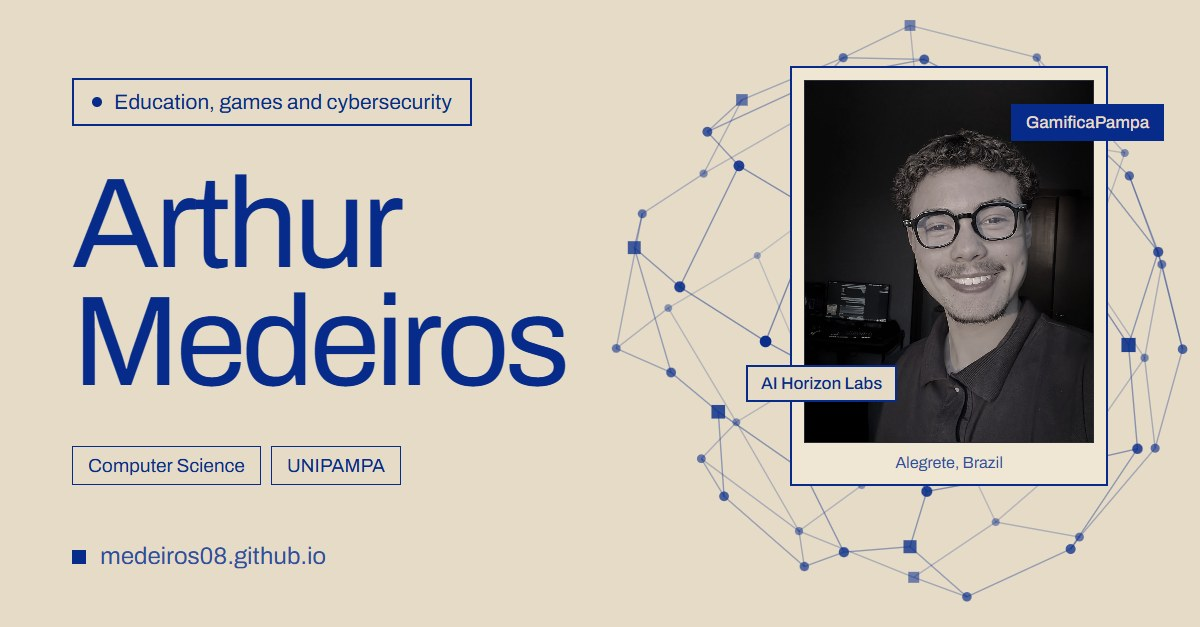
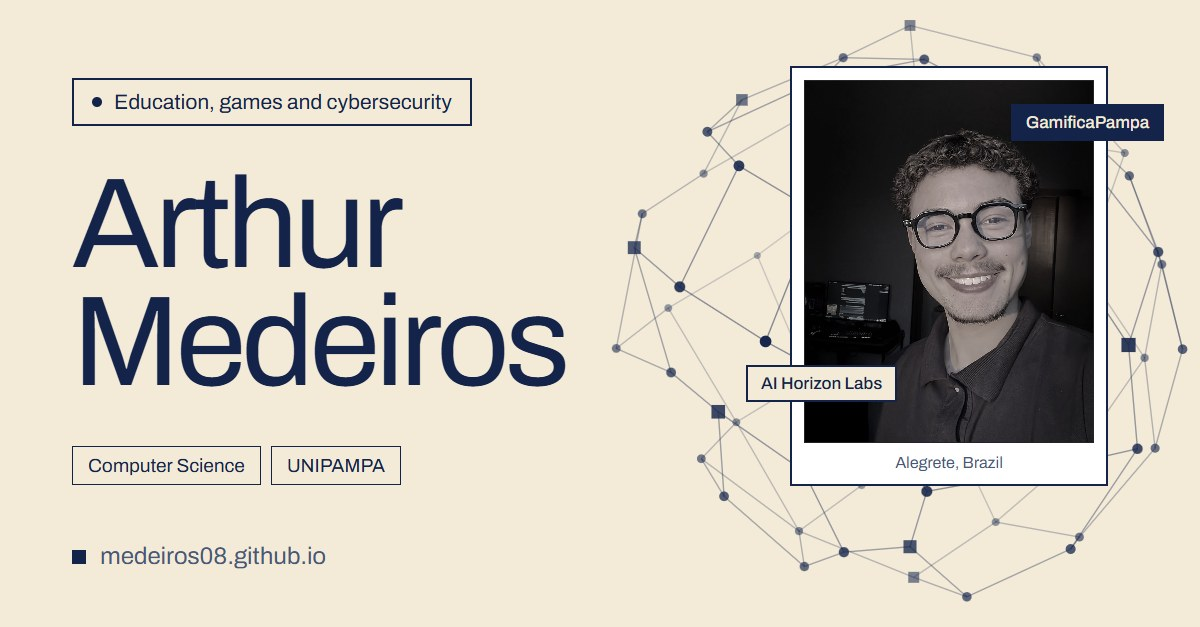
Visual "Marinho e creme": azul-marinho, creme e branco
Novo tema padrão: fundo creme, todo o texto em azul-marinho e cartões,
barra de navegação e etiquetas em branco. No escuro e no campo invertido
(Sobre e Laboratório P4), o inverso: marinho de fundo, texto creme e
destaques brancos. Todos os pares de texto têm contraste de 5,9:1 ou
mais. Areais e Wireshark continuam no menu de cores; as regras de título
em peso regular e foto quase sem cor valem para o Marinho também.

Escolhas de visual feitas antes desta versão são ignoradas uma vez (chave
estiloVersao), para todo mundo abrir no visual novo; escolhas feitas a
partir de agora continuam valendo. Imagens de compartilhamento refeitas
nas cores novas (?v=7) e theme-color em creme.

diff --git a/css/estilo.css b/css/estilo.css
@@ -1965,13 +1965,13 @@ html body .p4-form :is(input, select) { font-family: var(--fonte-codigo); }
 
 /* ---------- Tema Areais de Alegrete ---------- */
 /* Títulos em peso regular: o tamanho faz o trabalho, não o negrito */
-html[data-estilo="areais"]:not(.modo-hacker) :is(h1, h2, .hero-nome, .titulo-secao, .contato-titulo, .rodape-nome, .nav-nome, .p4-sim-titulo, .erro-codigo) { font-weight: 400; letter-spacing: -.03em; }
-html[data-estilo="areais"]:not(.modo-hacker) :is(h3, h4, .p4-etapa b) { font-weight: 500; }
-html[data-estilo="areais"]:not(.modo-hacker) .hero-nome { line-height: .95; }
+html:is([data-estilo="areais"], [data-estilo="marinho"]):not(.modo-hacker) :is(h1, h2, .hero-nome, .titulo-secao, .contato-titulo, .rodape-nome, .nav-nome, .p4-sim-titulo, .erro-codigo) { font-weight: 400; letter-spacing: -.03em; }
+html:is([data-estilo="areais"], [data-estilo="marinho"]):not(.modo-hacker) :is(h3, h4, .p4-etapa b) { font-weight: 500; }
+html:is([data-estilo="areais"], [data-estilo="marinho"]):not(.modo-hacker) .hero-nome { line-height: .95; }
 /* A foto entra na mesma paleta: quase sem cor, um pouco quente */
-html[data-estilo="areais"]:not(.modo-hacker) .hero-foto img { filter: grayscale(.85) sepia(.15); }
+html:is([data-estilo="areais"], [data-estilo="marinho"]):not(.modo-hacker) .hero-foto img { filter: grayscale(.85) sepia(.15); }
 /* O ponto verde de "disponível" vira o azul do tema */
-html[data-estilo="areais"]:not(.modo-hacker) :is(.hero-pill i, .status-ponto:not(.dormindo), .projeto-status::before) { background: var(--acento); animation-name: pulsar-acento; }
+html:is([data-estilo="areais"], [data-estilo="marinho"]):not(.modo-hacker) :is(.hero-pill i, .status-ponto:not(.dormindo), .projeto-status::before) { background: var(--acento); animation-name: pulsar-acento; }
 @keyframes pulsar-acento { 0% { box-shadow: 0 0 0 0 color-mix(in srgb, var(--acento) 55%, transparent); } 70%, 100% { box-shadow: 0 0 0 8px transparent; } }
 
 
@@ -2031,8 +2031,8 @@ html.anima .tela { animation: entrar-tela .9s cubic-bezier(.16, 1, .3, 1) backwa
 html.anima .tela.t1 { animation-delay: .45s; } html.anima .tela.t2 { animation-delay: .55s; } html.anima .tela.t3 { animation-delay: .65s; } html.anima .tela.t4 { animation-delay: .75s; }
 @keyframes entrar-tela { from { opacity: 0; transform: translate(-50%, -50%) translate(0, 0) rotate(0deg) scale(.8); } }
 /* Tema Areais: as telas entram na paleta como a foto */
-html[data-estilo="areais"]:not(.modo-hacker) .tela img { filter: grayscale(.6) sepia(.12); transition: filter .4s; }
-html[data-estilo="areais"]:not(.modo-hacker) .tela:hover img { filter: none; }
+html:is([data-estilo="areais"], [data-estilo="marinho"]):not(.modo-hacker) .tela img { filter: grayscale(.6) sepia(.12); transition: filter .4s; }
+html:is([data-estilo="areais"], [data-estilo="marinho"]):not(.modo-hacker) .tela:hover img { filter: none; }
 /* Com o topo empilhado (foto embaixo do texto), o leque fica menor; no celular some */
 @media (max-width: 960px) {
   .tela { width: 230px; }
@@ -2084,7 +2084,7 @@ html[data-estilo="areais"]:not(.modo-hacker) .tela:hover img { filter: none; }
 .caso-telas img { display: block; width: 100%; height: auto; aspect-ratio: 1024 / 640; object-fit: cover; border: var(--borda) solid var(--contorno); border-radius: calc(6 * var(--curva)); }
 .caso-telas figcaption { margin-top: 6px; font-size: 14px; color: var(--suave); }
 .caso-link { margin-top: 22px; }
-html[data-estilo="areais"]:not(.modo-hacker) .caso-telas img { filter: grayscale(.35) sepia(.08); }
+html:is([data-estilo="areais"], [data-estilo="marinho"]):not(.modo-hacker) .caso-telas img { filter: grayscale(.35) sepia(.08); }
 @media (max-width: 860px) {
   .bancada { grid-template-columns: minmax(0, 1fr); }
   .bancada-abas { position: static; grid-template-columns: repeat(auto-fit, minmax(160px, 1fr)); }

diff --git a/index.html b/index.html
@@ -6,7 +6,7 @@
   <title>Arthur Medeiros · Educação, jogos e cibersegurança</title>
   <meta name="description" id="metaDescricao" content="Estudante de Ciência da Computação na UNIPAMPA. Crio jogos que ensinam programação a crianças no GamificaPampa e pesquiso como deixar as redes mais seguras.">
   <meta name="author" content="Arthur Medeiros">
-  <meta name="theme-color" content="#1e1e1e">
+  <meta name="theme-color" content="#f3ead8">
   <link rel="canonical" href="https://medeiros08.github.io/">
   <link rel="alternate" hreflang="pt-BR" href="https://medeiros08.github.io/">
   <link rel="alternate" hreflang="en" href="https://medeiros08.github.io/en/">
@@ -20,7 +20,7 @@
   <meta property="og:url" content="https://medeiros08.github.io/">
   <meta property="og:title" content="Arthur Medeiros · Educação, jogos e cibersegurança">
   <meta property="og:description" content="Estudante de Ciência da Computação na UNIPAMPA. Crio jogos que ensinam programação a crianças no GamificaPampa e pesquiso como deixar as redes mais seguras.">
-  <meta property="og:image" content="https://medeiros08.github.io/img/compartilhar.jpg?v=6">
+  <meta property="og:image" content="https://medeiros08.github.io/img/compartilhar.jpg?v=7">
   <meta property="og:image:width" content="1200">
   <meta property="og:image:height" content="627">
   <meta property="og:image:alt" content="Arthur Medeiros: educação, jogos e cibersegurança">
@@ -59,7 +59,7 @@
 
   <link rel="preconnect" href="https://api.github.com" crossorigin>
   <link rel="preload" href="fontes/archivo-latin.woff2" as="font" type="font/woff2" crossorigin>
-  <link rel="stylesheet" href="css/estilo.css?v=20261022f">
+  <link rel="stylesheet" href="css/estilo.css?v=20261022g">
 
   <!-- Aplica o tema salvo antes de desenhar a página, para não piscar -->
   <script>
@@ -101,12 +101,12 @@
   <footer class="rodape" id="rodape"></footer>
 
   <!-- Seus dados ficam em js/dados.js -->
-  <script src="js/dados.js?v=20261022f"></script>
-  <script src="js/temas.js?v=20261022f"></script>
-  <script src="js/firewall.js?v=20261022f"></script>
-  <script src="js/p4.js?v=20261022f"></script>
-  <script src="js/rede.js?v=20261022f"></script>
+  <script src="js/dados.js?v=20261022g"></script>
+  <script src="js/temas.js?v=20261022g"></script>
+  <script src="js/firewall.js?v=20261022g"></script>
+  <script src="js/p4.js?v=20261022g"></script>
+  <script src="js/rede.js?v=20261022g"></script>
   <script src="js/vendor/lenis.min.js"></script>
-  <script src="js/app.js?v=20261022f"></script>
+  <script src="js/app.js?v=20261022g"></script>
 </body>
 </html>

diff --git a/en/index.html b/en/index.html
@@ -7,7 +7,7 @@
   <title>Arthur Medeiros · Education, games and cybersecurity</title>
   <meta name="description" id="metaDescricao" content="Computer Science student at UNIPAMPA (Brazil). I build games that teach kids to code at GamificaPampa and research how to make networks more secure.">
   <meta name="author" content="Arthur Medeiros">
-  <meta name="theme-color" content="#1e1e1e">
+  <meta name="theme-color" content="#f3ead8">
   <link rel="canonical" href="https://medeiros08.github.io/en/">
   <link rel="alternate" hreflang="pt-BR" href="https://medeiros08.github.io/">
   <link rel="alternate" hreflang="en" href="https://medeiros08.github.io/en/">
@@ -20,7 +20,7 @@
   <meta property="og:url" content="https://medeiros08.github.io/en/">
   <meta property="og:title" content="Arthur Medeiros · Education, games and cybersecurity">
   <meta property="og:description" content="Computer Science student at UNIPAMPA (Brazil). I build games that teach kids to code at GamificaPampa and research how to make networks more secure.">
-  <meta property="og:image" content="https://medeiros08.github.io/img/compartilhar-en.jpg?v=6">
+  <meta property="og:image" content="https://medeiros08.github.io/img/compartilhar-en.jpg?v=7">
   <meta property="og:image:width" content="1200">
   <meta property="og:image:height" content="627">
   <meta property="og:image:alt" content="Arthur Medeiros: education, games and cybersecurity">
@@ -59,7 +59,7 @@
 
   <link rel="preconnect" href="https://api.github.com" crossorigin>
   <link rel="preload" href="../fontes/archivo-latin.woff2" as="font" type="font/woff2" crossorigin>
-  <link rel="stylesheet" href="../css/estilo.css?v=20261022f">
+  <link rel="stylesheet" href="../css/estilo.css?v=20261022g">
 
   <script>
     document.documentElement.classList.add("js");
@@ -98,13 +98,13 @@
   <main id="conteudo"></main>
   <footer class="rodape" id="rodape"></footer>
 
-  <script src="../js/dados.js?v=20261022f"></script>
+  <script src="../js/dados.js?v=20261022g"></script>
 
-  <script src="../js/temas.js?v=20261022f"></script>
-  <script src="../js/firewall.js?v=20261022f"></script>
-  <script src="../js/p4.js?v=20261022f"></script>
-  <script src="../js/rede.js?v=20261022f"></script>
+  <script src="../js/temas.js?v=20261022g"></script>
+  <script src="../js/firewall.js?v=20261022g"></script>
+  <script src="../js/p4.js?v=20261022g"></script>
+  <script src="../js/rede.js?v=20261022g"></script>
   <script src="../js/vendor/lenis.min.js"></script>
-  <script src="../js/app.js?v=20261022f"></script>
+  <script src="../js/app.js?v=20261022g"></script>
 </body>
 </html>

diff --git a/js/temas.js b/js/temas.js
@@ -29,6 +29,17 @@
   // "fixos" são o papel e a tinta que não mudam com o tema (moldura da foto, balões do contato).
   const TEMAS = [
     {
+      // Azul-marinho, creme e branco: fundo creme com todo o texto em marinho e cartões brancos.
+      // No escuro (e no campo invertido), o inverso: marinho de fundo, texto creme e destaques em branco.
+      id: "marinho", nome: { pt: "Marinho e creme", en: "Navy and cream" }, titulo: FONTES.archivo, corpo: FONTES.archivo,
+      claro: { fundo: "#f3ead8", cartao: "#fffdf8", texto: "#13234a", suave: "#4a5878", acento: "#13234a", sobre: "#fffdf8" },
+      escuro: { fundo: "#0f1c3f", cartao: "#172a56", texto: "#f3ead8", suave: "#c3bba9", acento: "#ffffff", sobre: "#0f1c3f" },
+      destaques: ["#ffffff", "#e9dec7", "#dfe4ef"],
+      fixos: { papel: "#ffffff", tinta: "#13234a" },
+      forma: FORMAS.areia,
+      capas: ["#13234a", "#22366a", "#13234a", "#2e4580"],
+    },
+    {
       // Os areais de Alegrete: areia de fundo e um único azul-cobalto fazendo tudo (texto, desenhos, a rede).
       // No escuro, o inverso: areia sobre cobalto. Títulos em peso regular, nunca negrito.
       id: "areais", nome: { pt: "Areais de Alegrete", en: "Alegrete sands" }, titulo: FONTES.archivo, corpo: FONTES.archivo,
@@ -57,7 +68,7 @@
   // Guardado como id ("cor-2", "oceano"); versões antigas guardavam só o número da cor.
   const acharEstilo = (id) => ESTILOS.findIndex((e) => e.id === id || e.id === `cor-${id}`);
   // Quem tinha guardado um visual que não existe mais cai no "estilo" de dados.js
-  const indiceInicial = (guardado) => [guardado, D.estilo, "areais"].map(acharEstilo).find((i) => i >= 0) ?? 0;
+  const indiceInicial = (guardado) => [guardado, D.estilo, "marinho"].map(acharEstilo).find((i) => i >= 0) ?? 0;
 
   function aplicar(indice) {
     const e = ESTILOS[indice] || ESTILOS[0];

diff --git a/404.html b/404.html
@@ -28,7 +28,7 @@
   <link rel="icon" href="/favicon.svg" type="image/svg+xml">
   <link rel="preload" href="/fontes/archivo-latin.woff2" as="font" type="font/woff2" crossorigin>
   <!-- Caminhos absolutos: o GitHub Pages mostra esta página em qualquer endereço que não existe -->
-  <link rel="stylesheet" href="/css/estilo.css?v=20261022f">
+  <link rel="stylesheet" href="/css/estilo.css?v=20261022g">
   <script>
     try {
       var tema = localStorage.getItem("tema");
@@ -39,12 +39,12 @@
     } catch (e) {}
   </script>
   <!-- Mesmo visual do resto do site: o tema que o visitante escolheu, ou o "estilo" de dados.js -->
-  <script src="/js/dados.js?v=20261022f"></script>
-  <script src="/js/temas.js?v=20261022f"></script>
+  <script src="/js/dados.js?v=20261022g"></script>
+  <script src="/js/temas.js?v=20261022g"></script>
   <script>
     if (window.TEMAS_DO_SITE) {
       var guardado = null;
-      try { guardado = localStorage.getItem("estilo"); } catch (e) {}
+      try { if (localStorage.getItem("estiloVersao") === "2") guardado = localStorage.getItem("estilo"); } catch (e) {}
       TEMAS_DO_SITE.aplicar(TEMAS_DO_SITE.indiceInicial(guardado));
     }
   </script>

diff --git a/js/app.js b/js/app.js
@@ -298,7 +298,8 @@
 
   // Escolha do visitante no menu de cores e temas. A chave antiga "paleta" é ignorada de propósito:
   // guardava a cor do botão antigo e fazia o site abrir no lilás em vez do visual padrão.
-  const estiloGuardado = String(memoria.ler("estilo") ?? "");
+  // Escolhas feitas antes do visual Marinho e creme (sem "estiloVersao") são ignoradas uma vez, para todos verem o visual novo
+  const estiloGuardado = memoria.ler("estiloVersao") === "2" ? String(memoria.ler("estilo") ?? "") : "";
   let paleta = window.TEMAS_DO_SITE.indiceInicial(estiloGuardado);
   let pubsAbertas = false;
   let jaRenderizou = false;
@@ -1419,6 +1420,7 @@
   function escolherEstilo(indice) {
     paleta = (indice + ESTILOS.length) % ESTILOS.length;
     memoria.gravar("estilo", ESTILOS[paleta].id);
+    memoria.gravar("estiloVersao", "2");
     aplicarCores();
     atualizarCorDoNavegador();
     registrarEvento(`estilo-${ESTILOS[paleta].id}`, `Trocou o visual para ${t(ESTILOS[paleta].nome)}`);

diff --git a/en/notes/p4-explained/index.html b/en/notes/p4-explained/index.html
@@ -41,7 +41,7 @@
   </script>
 
   <link rel="preload" href="../../../fontes/archivo-latin.woff2" as="font" type="font/woff2" crossorigin>
-  <link rel="stylesheet" href="../../../css/estilo.css?v=20261022f">
+  <link rel="stylesheet" href="../../../css/estilo.css?v=20261022g">
   <script>
     document.documentElement.classList.add("js");
     try {
@@ -101,9 +101,9 @@
 
   <footer class="rodape" id="rodape"></footer>
 
-  <script src="../../../js/dados.js?v=20261022f"></script>
+  <script src="../../../js/dados.js?v=20261022g"></script>
 
-  <script src="../../../js/temas.js?v=20261022f"></script>
-  <script src="../../../js/app.js?v=20261022f"></script>
+  <script src="../../../js/temas.js?v=20261022g"></script>
+  <script src="../../../js/app.js?v=20261022g"></script>
 </body>
 </html>

diff --git a/en/notes/what-is-a-ctf/index.html b/en/notes/what-is-a-ctf/index.html
@@ -41,7 +41,7 @@
   </script>
 
   <link rel="preload" href="../../../fontes/archivo-latin.woff2" as="font" type="font/woff2" crossorigin>
-  <link rel="stylesheet" href="../../../css/estilo.css?v=20261022f">
+  <link rel="stylesheet" href="../../../css/estilo.css?v=20261022g">
   <script>
     document.documentElement.classList.add("js");
     try {
@@ -108,9 +108,9 @@
 
   <footer class="rodape" id="rodape"></footer>
 
-  <script src="../../../js/dados.js?v=20261022f"></script>
+  <script src="../../../js/dados.js?v=20261022g"></script>
 
-  <script src="../../../js/temas.js?v=20261022f"></script>
-  <script src="../../../js/app.js?v=20261022f"></script>
+  <script src="../../../js/temas.js?v=20261022g"></script>
+  <script src="../../../js/app.js?v=20261022g"></script>
 </body>
 </html>

diff --git a/en/projects/gamificapampa/index.html b/en/projects/gamificapampa/index.html
@@ -41,7 +41,7 @@
   </script>
 
   <link rel="preload" href="../../../fontes/archivo-latin.woff2" as="font" type="font/woff2" crossorigin>
-  <link rel="stylesheet" href="../../../css/estilo.css?v=20261022f">
+  <link rel="stylesheet" href="../../../css/estilo.css?v=20261022g">
   <script>
     document.documentElement.classList.add("js");
     try {
@@ -213,9 +213,9 @@
 
   <footer class="rodape" id="rodape"></footer>
 
-  <script src="../../../js/dados.js?v=20261022f"></script>
+  <script src="../../../js/dados.js?v=20261022g"></script>
 
-  <script src="../../../js/temas.js?v=20261022f"></script>
-  <script src="../../../js/app.js?v=20261022f"></script>
+  <script src="../../../js/temas.js?v=20261022g"></script>
+  <script src="../../../js/app.js?v=20261022g"></script>
 </body>
 </html>

diff --git a/notas/o-que-e-ctf/index.html b/notas/o-que-e-ctf/index.html
@@ -41,7 +41,7 @@
   </script>
 
   <link rel="preload" href="../../fontes/archivo-latin.woff2" as="font" type="font/woff2" crossorigin>
-  <link rel="stylesheet" href="../../css/estilo.css?v=20261022f">
+  <link rel="stylesheet" href="../../css/estilo.css?v=20261022g">
   <script>
     document.documentElement.classList.add("js");
     try {
@@ -108,9 +108,9 @@
 
   <footer class="rodape" id="rodape"></footer>
 
-  <script src="../../js/dados.js?v=20261022f"></script>
+  <script src="../../js/dados.js?v=20261022g"></script>
 
-  <script src="../../js/temas.js?v=20261022f"></script>
-  <script src="../../js/app.js?v=20261022f"></script>
+  <script src="../../js/temas.js?v=20261022g"></script>
+  <script src="../../js/app.js?v=20261022g"></script>
 </body>
 </html>

diff --git a/notas/p4-explicado/index.html b/notas/p4-explicado/index.html
@@ -41,7 +41,7 @@
   </script>
 
   <link rel="preload" href="../../fontes/archivo-latin.woff2" as="font" type="font/woff2" crossorigin>
-  <link rel="stylesheet" href="../../css/estilo.css?v=20261022f">
+  <link rel="stylesheet" href="../../css/estilo.css?v=20261022g">
   <script>
     document.documentElement.classList.add("js");
     try {
@@ -101,9 +101,9 @@
 
   <footer class="rodape" id="rodape"></footer>
 
-  <script src="../../js/dados.js?v=20261022f"></script>
+  <script src="../../js/dados.js?v=20261022g"></script>
 
-  <script src="../../js/temas.js?v=20261022f"></script>
-  <script src="../../js/app.js?v=20261022f"></script>
+  <script src="../../js/temas.js?v=20261022g"></script>
+  <script src="../../js/app.js?v=20261022g"></script>
 </body>
 </html>

diff --git a/projetos/gamificapampa/index.html b/projetos/gamificapampa/index.html
@@ -41,7 +41,7 @@
   </script>
 
   <link rel="preload" href="../../fontes/archivo-latin.woff2" as="font" type="font/woff2" crossorigin>
-  <link rel="stylesheet" href="../../css/estilo.css?v=20261022f">
+  <link rel="stylesheet" href="../../css/estilo.css?v=20261022g">
   <script>
     document.documentElement.classList.add("js");
     try {
@@ -213,9 +213,9 @@
 
   <footer class="rodape" id="rodape"></footer>
 
-  <script src="../../js/dados.js?v=20261022f"></script>
+  <script src="../../js/dados.js?v=20261022g"></script>
 
-  <script src="../../js/temas.js?v=20261022f"></script>
-  <script src="../../js/app.js?v=20261022f"></script>
+  <script src="../../js/temas.js?v=20261022g"></script>
+  <script src="../../js/app.js?v=20261022g"></script>
 </body>
 </html>
